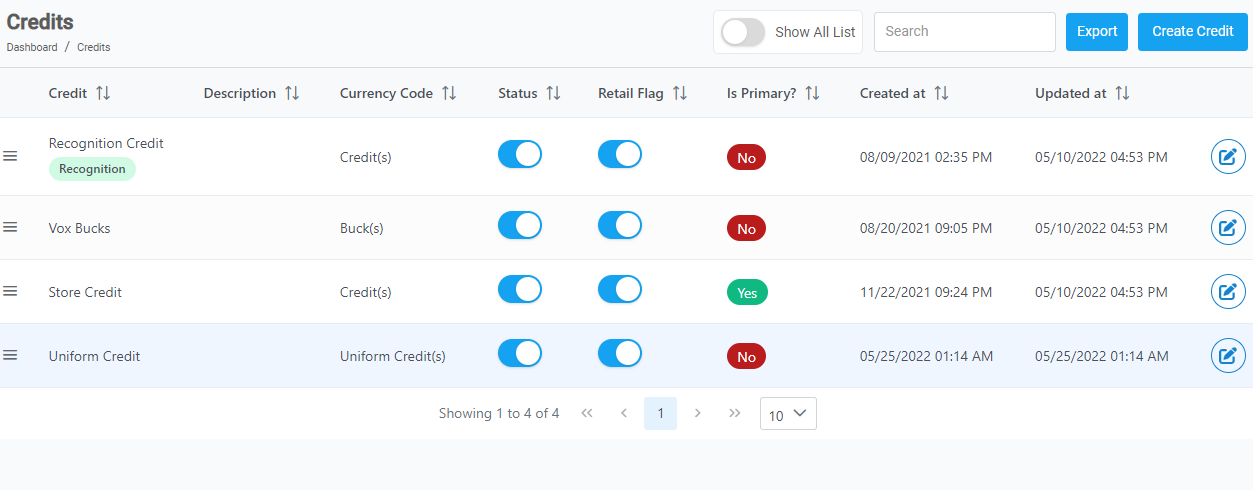
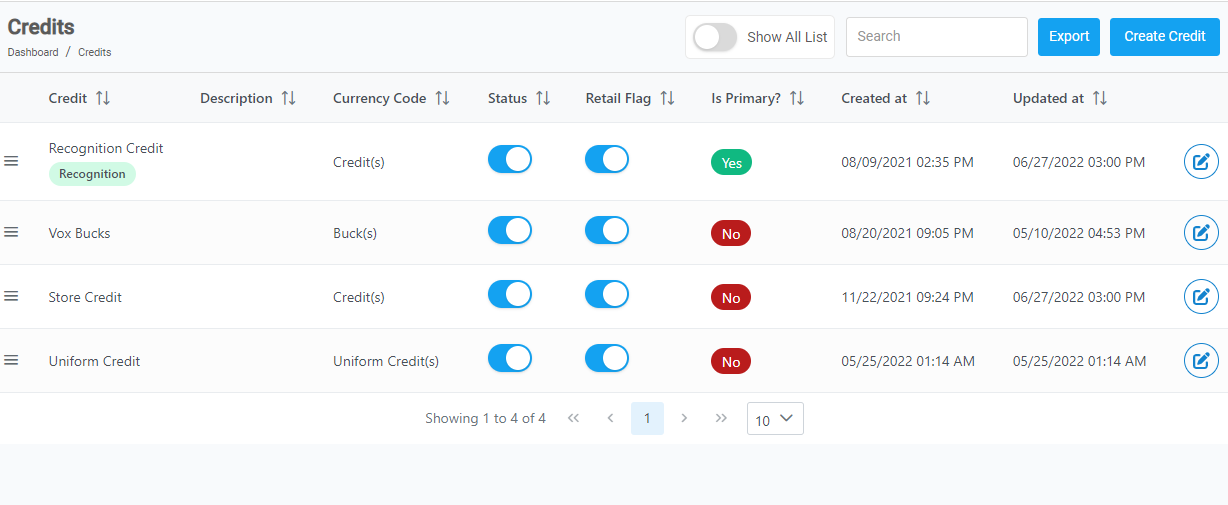
credit docs

diff --git a/docs/credits/credits/creditedit.md b/docs/credits/credits/creditedit.md
@@ -1,0 +1,34 @@
+---
+layout: default
+title: Edit a details
+parent: Credits
+grand_parent: Credits
+nav_order: 2
+nav_exclude: true
+---
+
+### Steps to edit a credit
+
+1. From the **Dashboard**, select **Credits.**
+
+   ![credits_menu_image](../../../images/credits/credit1.png "Credits Menu")
+
+2. Click on **Credits.**
+3. **Credits** page opens up. You can directly interact with the **Status** and **Retail Falg** column to change the status of the desired credit.
+
+   ![credits_page](../../../images/credits/credit2.png "Credits page")
+
+4. To change the **Status**, click on the **Toggle Button** of the desired credit from the status column. Or, else skip to next step.
+5. To change the **Retail Flag** status, click on the **Toggle Button** of the desired credit from the retail flag column. Or, else skip to next step.
+
+   > **Note:** ![](../../../images/buttons/off.png) indicates **Disabled** and ![](../../../images/buttons/on.png) indicates **Enabled.**
+
+6. Scroll down or use the searchbar to look for the desired credit. After you have found the desired **credit**, click on ![credit_edit_button](../../../images/buttons/ccheck.png) located on the right side of the row.
+
+7. **Update Credit Detail** dialog opens up, edit only the required fields.
+
+   ![edit_credit](../../../images/credits/credt2.png "Update Credit Detail")
+
+8. **[OPTIONAL]** Toggle the **Retail Flag** to **ON** or **OFF** to **Enable** or **Disable Retail Flag** option.
+9. **[OPTIONAL]** Toggle the **Enable Credit As Primary** to **ON** or **OFF** to **SET** or **UNSET** the credit as primary.
+10. Click on the **Save**.
